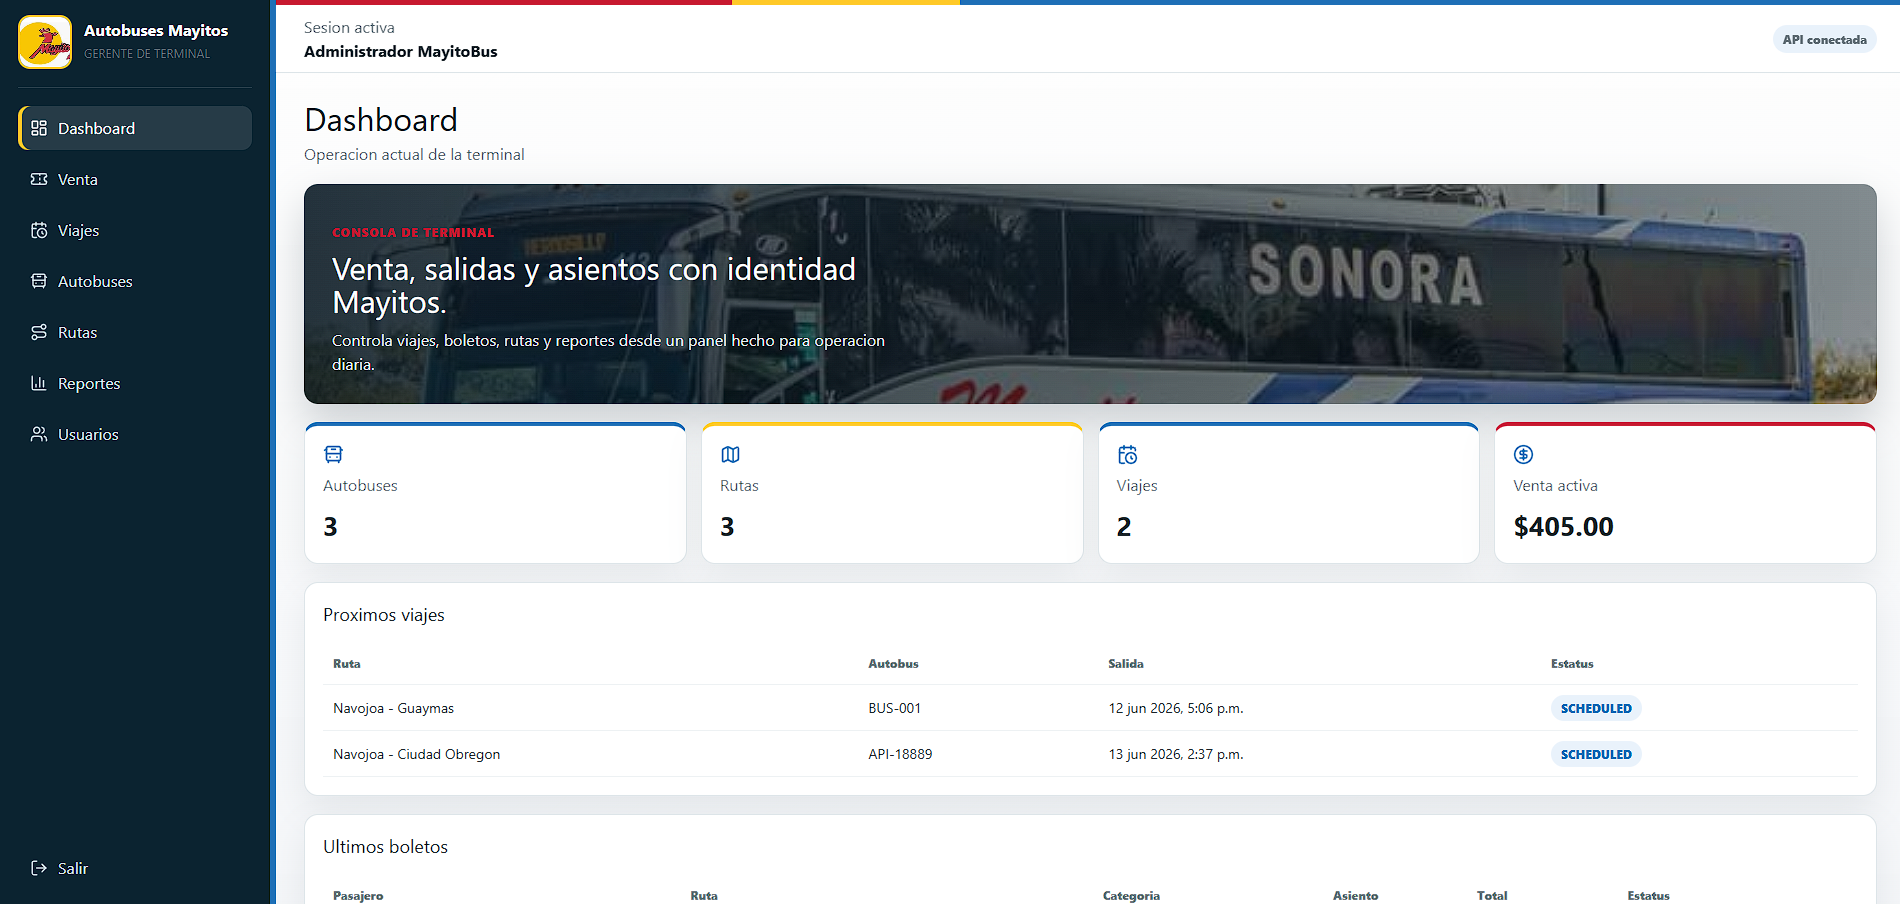
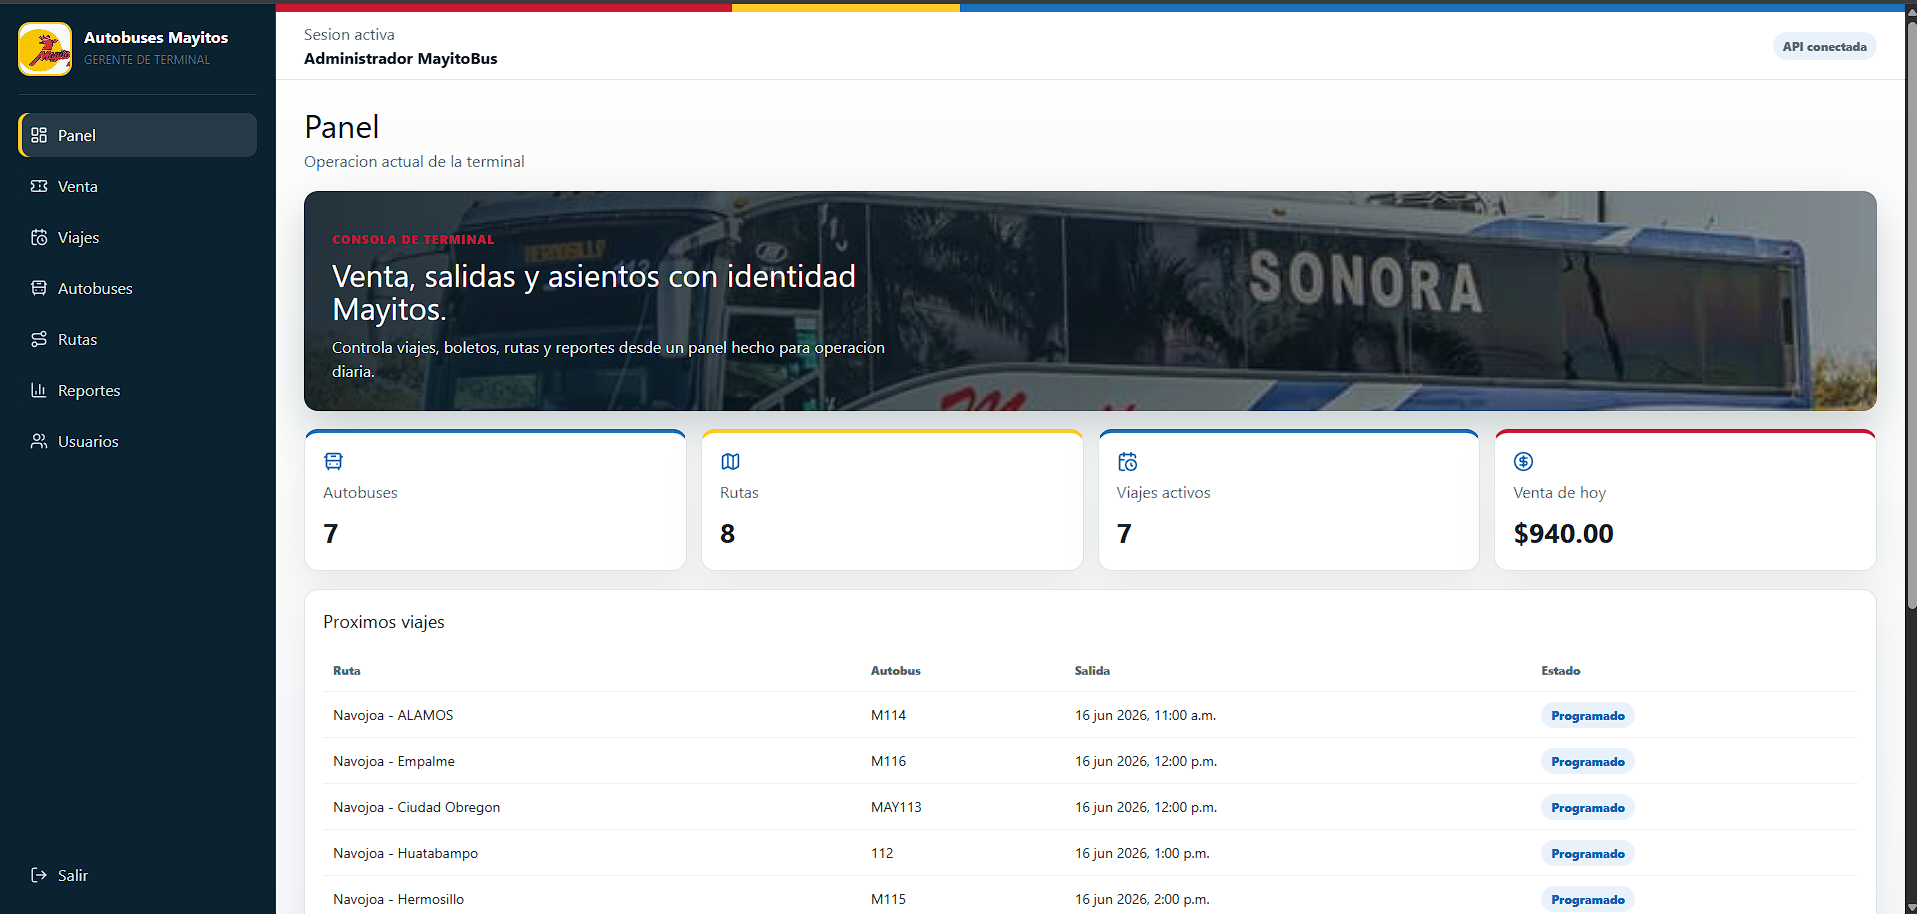
Update README screenshots

diff --git a/README.md b/README.md
@@ -28,6 +28,10 @@ Nota: el plan gratuito de Render puede pausar la API por inactividad. La primera
 
 ![Panel](docs/screenshots/dashboard.png)
 
+### Agenda de viajes
+
+![Agenda de viajes](docs/screenshots/trips.png)
+
 ### Venta de boletos y boleto imprimible
 
 ![Venta de boletos](docs/screenshots/ticket-sale.png)
@@ -65,6 +69,7 @@ Nota: el plan gratuito de Render puede pausar la API por inactividad. La primera
 - Gestion de rutas con activacion y desactivacion.
 - Programacion y cancelacion de viajes.
 - Separacion de agenda operativa e historial para viajes.
+- Validacion de horarios para evitar que un autobus tenga viajes empalmados.
 - Venta y cancelacion de boletos.
 - Separacion de boletos del dia e historial.
 - Categorias de boleto con descuento:
@@ -76,6 +81,7 @@ Nota: el plan gratuito de Render puede pausar la API por inactividad. La primera
 - Control de asientos por viaje.
 - Boleto imprimible.
 - Reportes de ventas por rango de fechas con visualizacion diaria.
+- Mensajes de validacion claros para orientar al usuario durante la captura.
 - Despliegue con frontend, API y PostgreSQL en Render.
 
 ## Modelo de dominio